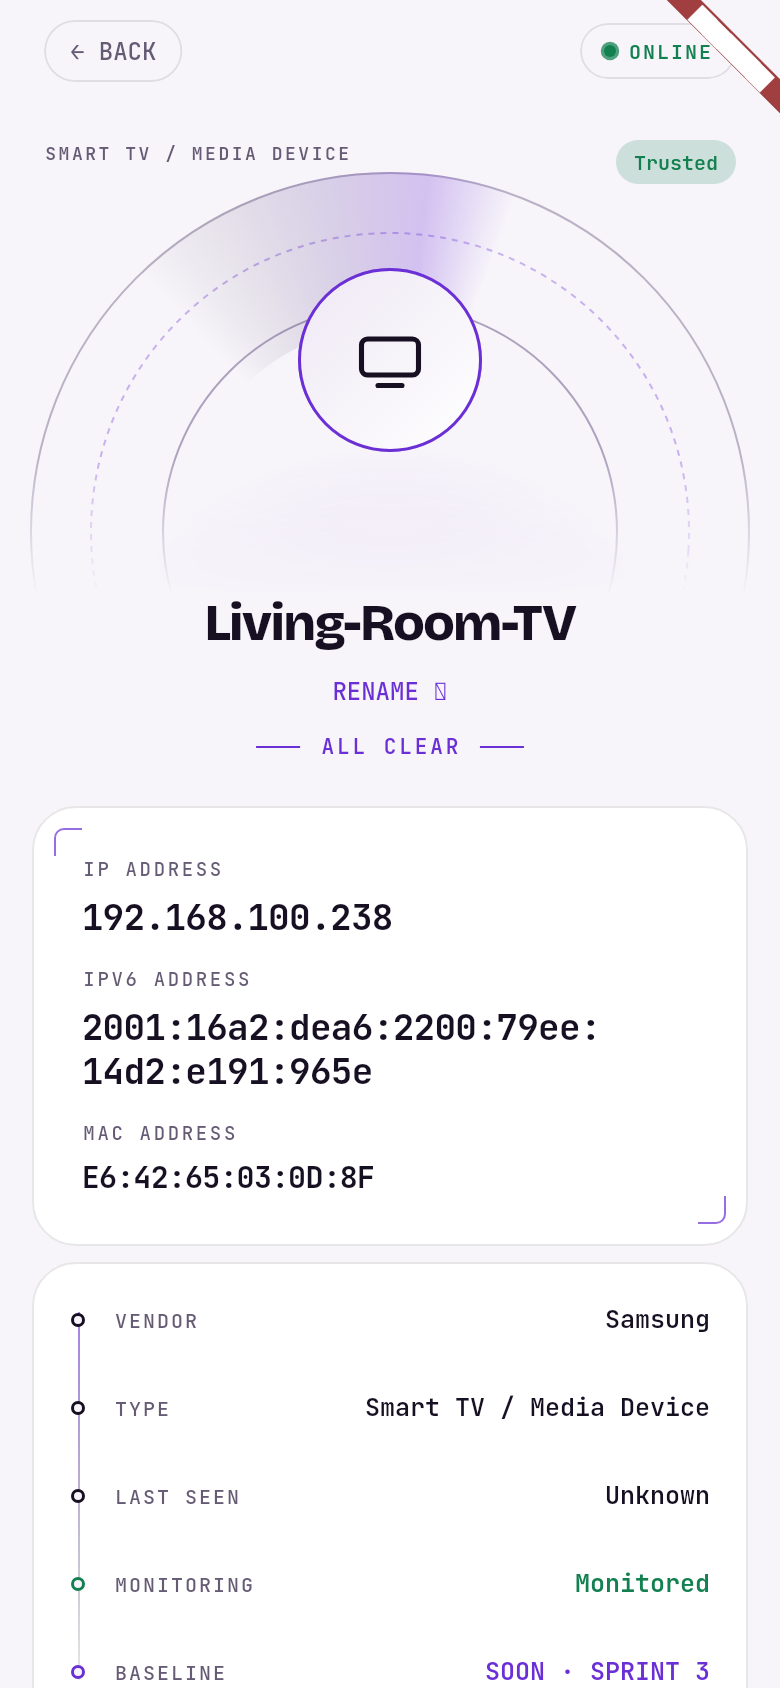
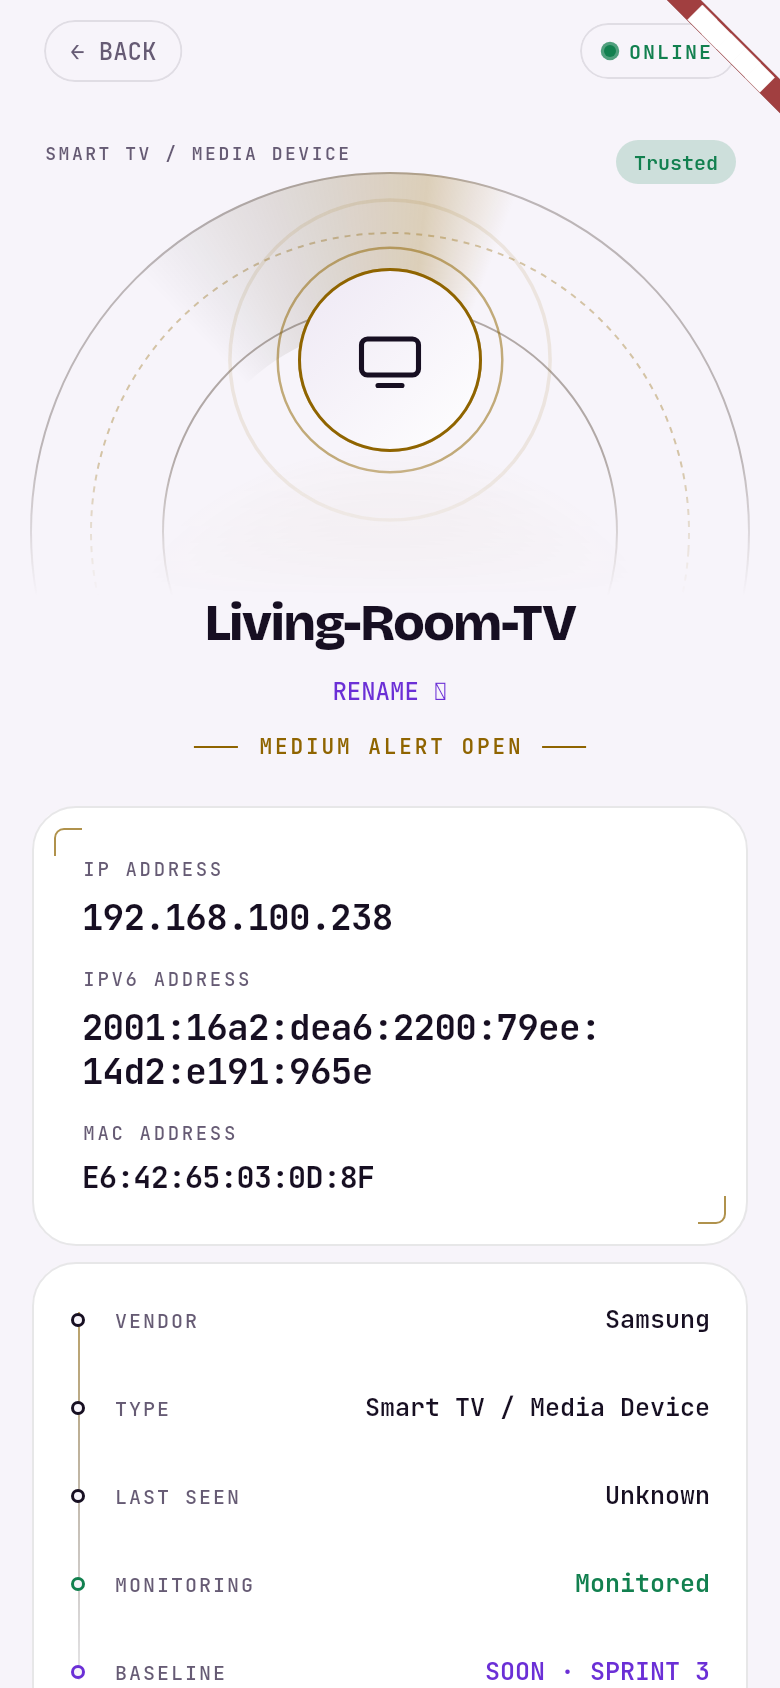
feat(signals): PBI-09/10 unresolved alerts feed device signals; filter labels unclipped; Last seen restored
- alertSeverityBadges ON (approved): worst UNRESOLVED (New/Reviewed) linked alert
  per device drives Attention + Home priority (Signals.sorted) and the device-row
  severity flag/accent using the severity palette — on its own line, never
  blended with trust/monitoring colours. Unlinked (device_mac NULL) alerts are
  attributed to no device; resolving all alerts clears the severity signal while
  Attention persists for Unrecognized/Not-Monitored devices (tests added, incl.
  resolve-all and priority ordering). Home alerts summary + counter (PBI-24) and
  7" display count stay deferred.
- Device filter chips: FittedBox scale-down instead of ellipsis so 'Not
  attention'/'Not monitored' are never clipped; live-resize test changes app
  zoom + system scale with the menu open (during + after), labels stay full.
- Alert details: 'Last seen' row restored showing last_event_time; First
  seen/occurrences/rule id/ports remain hidden (kept in DB/API).
- Docs: PLAN/README/VERIFICATION updated for PBI-22 + PBI-09/10 scope and the
  field-hiding decisions; adds read-only alert-data investigation
  (evidence/partD-alert-data-investigation.md): count driven by informational/
  decoder rules (dedup healthy, 0 should-have-merged pairs); 202 NULL links =
  2 address-less decoder events + 200 IPv6 privacy-address cases, 0 linkable
  misses, 0 ambiguous; IPv6 attribution improvement proposed, not applied.

mobile 76 passed / analyze clean; display analyze clean; goldens regenerated.

diff --git a/app/mobile/test/alerts_test.dart b/app/mobile/test/alerts_test.dart
@@ -87,39 +87,75 @@ void main() {
     test('alerts + state management are enabled; later-sprint surfaces hidden', () {
       expect(FeatureRelease.alerts, isTrue); // Alerts tab, details, device alerts
       expect(FeatureRelease.alertManagement, isTrue); // PBI-22 moved into Sprint 2
+      expect(FeatureRelease.alertSeverityBadges, isTrue); // PBI-09/10: signals + priority
       // Everything else stays hidden until its own sprint:
       expect(FeatureRelease.alertsHome, isFalse); // Home count + recent summary (PBI-24)
-      expect(FeatureRelease.alertSeverityBadges, isFalse); // device-list badges
       expect(FeatureRelease.alertDisplay, isFalse); // 7-inch display count
       expect(FeatureRelease.alertExplanations, isFalse); // "What happened" block
       expect(FeatureRelease.risk, isFalse); // network risk
     });
   });
 
-  group('Device-list alert badges stay hidden (alertSeverityBadges off)', () {
-    test('worstByMac still computes the worst unresolved severity per mac', () {
+  group('PBI-09/10: unresolved alerts feed the device signals', () {
+    test('worstByMac: worst unresolved severity per mac; unlinked/resolved excluded', () {
       final worst = Signals.worstByMac([
         SecurityAlert.fromApi(_apiAlert(over: {'device_mac': 'm1', 'severity': 'low'})),
         SecurityAlert.fromApi(_apiAlert(over: {'device_mac': 'm1', 'severity': 'high'})),
         SecurityAlert.fromApi(_apiAlert(over: {'device_mac': null, 'severity': 'critical'})),
+        SecurityAlert.fromApi(_apiAlert(over: {'device_mac': 'm2', 'severity': 'critical', 'state': 'resolved'})),
       ]);
       expect(worst['m1'], Severity.high);
-      expect(worst.keys.toList(), ['m1']); // unlinked alert (null mac) badges no device
+      // unlinked (null mac) and resolved alerts are attributed to no device
+      expect(worst.keys.toList(), ['m1']);
     });
 
-    test('Signals.all yields no severity badges while the gate is off', () {
+    test('New/Reviewed alert → severity signal; resolving all clears it but keeps Attention when due', () {
       final state = AppState(DemoRepository());
+      addTearDown(state.dispose);
       state.devices = const [
-        Device(mac: 'm1', presence: Presence.online, trusted: true),
-        Device(mac: 'm2', presence: Presence.online, trusted: true),
+        // Unrecognized + not monitored device with an alert.
+        Device(mac: 'm1', presence: Presence.online, trusted: false, monitored: false),
+        // Fully-trusted, monitored device with an alert.
+        Device(mac: 'm2', presence: Presence.online, trusted: true, monitored: true),
       ];
       state.alerts = [
-        SecurityAlert.fromApi(_apiAlert(over: {'device_mac': 'm1', 'severity': 'critical'})),
+        SecurityAlert.fromApi(_apiAlert(over: {'device_mac': 'm1', 'severity': 'medium', 'state': 'reviewed'})),
+        SecurityAlert.fromApi(_apiAlert(over: {'id': 'b', 'device_mac': 'm2', 'severity': 'high', 'state': 'new'})),
       ];
-      final signals = Signals.all(state);
-      expect(signals.every((s) => s.alertSev == null), isTrue);
-      expect(signals.any((s) => s.hasAlert), isFalse);
-      state.dispose();
+      var s1 = Signals.of(state, state.devices[0]);
+      var s2 = Signals.of(state, state.devices[1]);
+      // Reviewed still counts as unresolved; severity shown in the severity palette.
+      expect(s1.hasAlert, isTrue);
+      expect(s1.alertSev, Severity.medium);
+      expect(s1.rowAccent, sevColor(Severity.medium));
+      expect(s2.alertSev, Severity.high);
+      expect(s1.needsAttention && s2.needsAttention, isTrue);
+
+      // Resolve ALL alerts: the severity signal disappears...
+      state.alerts = [
+        for (final a in state.alerts!) a.copyWith(state: AlertState.resolved),
+      ];
+      s1 = Signals.of(state, state.devices[0]);
+      s2 = Signals.of(state, state.devices[1]);
+      expect(s1.hasAlert, isFalse);
+      expect(s2.hasAlert, isFalse);
+      // ...but m1 stays Attention (unrecognized + not monitored), m2 does not.
+      expect(s1.needsAttention, isTrue);
+      expect(s2.needsAttention, isFalse);
+    });
+
+    test('Home priority: the device with the open alert sorts first among online', () {
+      final state = AppState(DemoRepository());
+      addTearDown(state.dispose);
+      state.devices = const [
+        Device(mac: 'aa', hostname: 'Quiet', presence: Presence.online, trusted: true, monitored: true),
+        Device(mac: 'bb', hostname: 'Alerting', presence: Presence.online, trusted: true, monitored: true),
+      ];
+      state.alerts = [
+        SecurityAlert.fromApi(_apiAlert(over: {'device_mac': 'bb', 'severity': 'high'})),
+      ];
+      final sorted = Signals.sorted(state);
+      expect(sorted.first.device.mac, 'bb');
     });
   });
 }

diff --git a/app/mobile/test/device_filter_test.dart b/app/mobile/test/device_filter_test.dart
@@ -1,6 +1,7 @@
 import 'package:assas_core/assas_core.dart';
 import 'package:assas_mobile/screens/devices/device_list_screen.dart';
 import 'package:assas_mobile/state/app_state.dart';
+import 'package:assas_mobile/widgets/design_scale.dart';
 import 'package:flutter/material.dart';
 import 'package:flutter_test/flutter_test.dart';
 import 'package:shared_preferences/shared_preferences.dart';
@@ -23,5 +24,54 @@ void main() {
     expect(find.text('DEVICE INDEX · 1 / 2'), findsOneWidget);
     expect(find.text('New'), findsOneWidget);
     expect(find.text('Known'), findsNothing);
+  });
+
+  testWidgets('filter labels stay full (no clipping) while the font size changes live', (tester) async {
+    SharedPreferences.setMockInitialValues({});
+    final state = AppState(DemoRepository())..loadedOnce = true;
+    state.devices = const [
+      Device(mac: 'aa', hostname: 'Known', presence: Presence.online, trusted: true),
+    ];
+    addTearDown(state.dispose);
+    addTearDown(tester.view.reset);
+    tester.view.devicePixelRatio = 1;
+    tester.view.physicalSize = const Size(320, 900);
+
+    final scale = ValueNotifier<double>(0.85);
+    final zoom = ValueNotifier<double>(1.0);
+    addTearDown(scale.dispose);
+    addTearDown(zoom.dispose);
+    await tester.pumpWidget(MaterialApp(
+      home: ListenableBuilder(
+        listenable: Listenable.merge([scale, zoom]),
+        builder: (context, _) => MediaQuery(
+          data: MediaQuery.of(context).copyWith(textScaler: TextScaler.linear(scale.value)),
+          child: DesignScale(
+            zoom: zoom.value,
+            child: Material(child: Scaffold(body: DeviceListScreen(state: state))),
+          ),
+        ),
+      ),
+    ));
+    await tester.pump(const Duration(milliseconds: 300));
+
+    // Open the filter menu, then change app zoom + system scale LIVE with the
+    // menu open; the full pair labels must stay present (FittedBox shrinks, no
+    // ellipsis) and nothing overflows during or after the change.
+    await tester.tap(find.bySemanticsLabel(RegExp('^Filter devices')));
+    await tester.pump(const Duration(milliseconds: 300));
+    const labels = ['All', 'Attention', 'Not attention', 'Trusted', 'Untrusted',
+      'Online', 'Offline', 'Monitored', 'Not monitored'];
+    for (final (z, s) in [(1.0, 0.85), (1.2, 1.0), (1.2, 1.3), (1.06, 1.3), (1.0, 0.85)]) {
+      zoom.value = z;
+      scale.value = s;
+      await tester.pump();                                 // during the change
+      expect(tester.takeException(), isNull, reason: 'during zoom=$z scale=$s');
+      await tester.pump(const Duration(milliseconds: 320)); // settled
+      expect(tester.takeException(), isNull, reason: 'settled zoom=$z scale=$s');
+      for (final l in labels) {
+        expect(find.text(l), findsOneWidget, reason: '"$l" must stay fully present at zoom=$z scale=$s');
+      }
+    }
   });
 }

diff --git a/app/mobile/lib/screens/devices/device_list_screen.dart b/app/mobile/lib/screens/devices/device_list_screen.dart
@@ -468,8 +468,15 @@ class _DeviceListScreenState extends State<DeviceListScreen> {
           children: [
             GlowDot(p.dot, size: 7, glow: 0),
             const SizedBox(width: 7),
+            // Full label always visible: shrink-to-fit instead of ellipsis, so
+            // "Not attention"/"Not monitored" are never clipped at large fonts
+            // while the two-per-row layout is kept.
             Expanded(
-              child: Text(p.label, maxLines: 1, overflow: TextOverflow.ellipsis, style: UiText.menuItem),
+              child: FittedBox(
+                fit: BoxFit.scaleDown,
+                alignment: Alignment.centerLeft,
+                child: Text(p.label, maxLines: 1, style: UiText.menuItem),
+              ),
             ),
             if (on) Text('✓', style: UiText.sans(12, 800, color: Ui.acc)),
           ],
@@ -671,6 +678,14 @@ class _DeviceRow extends StatelessWidget {
                     crossAxisAlignment: CrossAxisAlignment.end,
                     children: [
                       Text('● ${d.onlineLabel}', style: UiText.listStatus.copyWith(color: s.dotColor)),
+                      // PBI-09/10: worst UNRESOLVED alert severity, in the
+                      // severity palette (own line — never blended with the
+                      // trust/monitoring flag colours below).
+                      if (s.hasAlert) ...[
+                        const SizedBox(height: 3),
+                        Text('${sevUpper(s.alertSev!)} ALERT',
+                            style: UiText.listFlag.copyWith(color: s.alertColor)),
+                      ],
                       if (s.unrec) ...[
                         const SizedBox(height: 3),
                         Text('UNRECOGNIZED', style: UiText.listFlag.copyWith(color: Ui.med)),

diff --git a/app/packages/assas_design/lib/release_status.dart b/app/packages/assas_design/lib/release_status.dart
@@ -13,13 +13,17 @@ abstract final class FeatureRelease {
   // flag is independent of the deferred Home surfaces below.
   static bool get alertManagement => true;
 
-  // Later-sprint surfaces kept hidden even though `alerts` + `alertManagement`
-  // are live (PBI-24 and friends are NOT part of the PBI-22 move):
-  //  - Home (dashboard) open-alerts count + recent-alerts summary,
-  //  - device-list per-row alert-severity badges / alert-based sorting,
+  // PBI-09/PBI-10 (approved for Sprint 2): unresolved alerts feed the device
+  // signals — Attention computation, Home device priority, and the per-row
+  // alert-severity accent using the severity palette (never blended with the
+  // trust/monitoring colours). Only LINKED alerts count; device_mac NULL ones
+  // are attributed to no device.
+  static bool get alertSeverityBadges => true;
+
+  // Still-deferred surfaces (NOT part of the PBI-22/PBI-09/10 scope):
+  //  - Home (dashboard) open-alerts count + recent-alerts summary (PBI-24),
   //  - the 7-inch display's alert count.
   static bool get alertsHome => false;
-  static bool get alertSeverityBadges => false;
   static bool get alertDisplay => false;
   // Plain-language explanations are a later sprint; hidden here (explanation is
   // NULL for Sprint 2 threat alerts).

diff --git a/app/mobile/test/detail_overflow_test.dart b/app/mobile/test/detail_overflow_test.dart
@@ -117,10 +117,12 @@ void main() {
     await tester.pumpWidget(MaterialApp(theme: MobileTheme.light,
         home: DesignScale(zoom: 1, child: AlertDetailsScreen(state: s, alertId: '1'))));
     await tester.pump(const Duration(milliseconds: 60));
-    // SpecList uppercases labels; hidden fields must be absent in any case
-    for (final f in ['OCCURRENCES', 'FIRST SEEN', 'LAST SEEN', 'RULE ID', 'DEVICE']) {
+    // SpecList uppercases labels; hidden fields must be absent in any case.
+    // (LAST SEEN is intentionally shown again = last_event_time; FIRST SEEN stays hidden.)
+    for (final f in ['OCCURRENCES', 'FIRST SEEN', 'RULE ID', 'DEVICE']) {
       expect(find.text(f), findsNothing, reason: '$f should be hidden');
     }
+    expect(find.text('LAST SEEN'), findsOneWidget, reason: 'Last seen (last_event_time) is shown');
     // ports hidden: value shows IP only, never ip:port
     expect(find.textContaining(':51000'), findsNothing);
     expect(find.textContaining(':443'), findsNothing);

diff --git a/app/mobile/lib/screens/alerts/alert_details_screen.dart b/app/mobile/lib/screens/alerts/alert_details_screen.dart
@@ -141,6 +141,9 @@ class _AlertDetailsScreenState extends State<AlertDetailsScreen> {
                     rows: [
                       ('Alert type', a.kindLabel, Ui.ink),
                       ('Severity', a.severityLabel, c),
+                      // Last seen = the actual last event time (dedup bumps it).
+                      // First seen stays hidden per the field-hiding decision.
+                      ('Last seen', TimeFormat.alertTime(a.lastTime ?? a.time), Ui.ink),
                       if (a.kind == AlertKind.threat && a.sourceIp != null)
                         ('Source IP', a.sourceIp!, Ui.ink),
                       if (a.kind == AlertKind.threat && a.destinationIp != null)

diff --git a/docs/sprint-2/evidence/partD-alert-data-investigation.md b/docs/sprint-2/evidence/partD-alert-data-investigation.md
@@ -1,0 +1,82 @@
+# Alert data investigation (read-only) — unlinked alerts & large count
+
+Read-only analysis of the production DB (`assas.db`, `mode=ro`) cross-checked
+against the live `/var/log/suricata/eve.json` on 2026-11-04. **No rows deleted,
+no rules/severity changed, no synthetic events written.** Snapshot: 577 Threat
+rows, SUM(occurrence_count)=5119, 39 distinct rules, event window
+2026-11-02T15:40 → 2026-11-04T20:01.
+
+## Item 4 — why the count is large (not an attack, not a dedup bug)
+
+**Distribution**
+- By state: New 575 (occ 3619), Reviewed 1 (occ 218), Resolved 1 (occ 1282).
+- By severity: **all 577 are Medium** — every firing rule has Suricata priority 3
+  (`1→Critical, 2→High, 3→Medium, ≥4→Low`), so nothing maps to Critical/High/Low.
+- Top rules (rows / occ): ET INFO Discord Domain in DNS Lookup 144/2086; SURICATA
+  STREAM CLOSEWAIT FIN out of window 141/245; SURICATA STREAM excessive
+  retransmissions 71/75; more ET INFO Discord 42/32; SURICATA TCP option invalid
+  length 19/394; ET FILE_SHARING file-sharing domain 11+11; ET INFO Android
+  connectivity check 9.
+
+**Classification:** the volume is dominated by **informational** rules (ET INFO
+Discord/connectivity/file-sharing *domain in DNS/TLS* — benign lookups; category
+"Misc activity") and **decoder/stream-engine** events (SURICATA STREAM / TCP
+option / IPv6) — network noise, not threat indicators. Confirmed against eve.json:
+rule 2035465 is a real `ET INFO ... DNS Lookup`, category "Misc activity",
+priority 3, with a src_ip.
+
+**Is it real events, re-duplication, or a dedup/resume bug?** Real events.
+- Dedup is working: 577 rows compress 5119 events.
+- No merge failures: **0** linked rows start within the 300 s window of the
+  previous same-rule+device alert (query with a window-function LAG). The many
+  rows per rule+device (e.g. 144 Discord rows on one device over ~2 days) are all
+  spaced **> 300 s** apart → legitimately separate instances, not re-dup.
+- The P1 ingester fixes (fstat identity, reaper, resume) already landed; no
+  inflation from re-reads is present in this snapshot.
+
+**Recommendation (NOT applied — proposal only, per instruction):** do not delete
+rows or change rules/severity to shrink the number. If desired, a *separate*
+proposal is to (a) surface a rule-class label so informational/decoder events are
+visually distinct from threat-indicative ones, and/or (b) tune noisy decoder
+rules — each with its own before/after evidence. Validation limit: rotated eve
+files are reaped per retention, so events older than the retained window can't be
+re-matched line-by-line.
+
+## Item 3 — alerts with device_mac = NULL (202 of 577)
+
+Classified read-only:
+| Reason | Count |
+|--------|-------|
+| (a) event has no addresses (decoder) | 2 |
+| (b) addresses present, **no** inventory match | 200 |
+| (c) address matches **>1** device (ambiguous → NULL by design) | 0 |
+| (d) address matches **exactly one** device but was left NULL (**would be a bug**) | **0** |
+
+**(d) = 0 → the linker has no bug:** every alert that could be reliably attributed
+*is* linked (IPv4 links fine). Nothing is left Unknown that should have linked,
+and nothing is linked arbitrarily.
+
+**Root cause of the 200:** they are **all IPv6** (0 IPv4). 189 of 200 carry a home
+address in the prefix `2001:16a2:dea6:2200::/64` (e.g.
+`dst=2001:16a2:dea6:2200:79ee:14d2:e191:965e`) talking to an external host
+(Facebook/Cloudflare/Google IPv6). That home address is a **temporary/privacy
+SLAAC address** that is **not** the single global IPv6 the inventory stored for
+the device (inventory has e.g. `...:2200:6854:...` for a device in the same /64).
+Devices rotate privacy addresses and the /64 holds several devices, so matching by
+the stored address fails and matching by prefix would be **ambiguous** — PBI-14
+therefore correctly leaves `device_mac = NULL` rather than guess.
+
+**Proposal (NOT applied — needs approval + a discovery/inventory change, out of
+PBI-14's "link only when reliable"):** attribute IPv6 flows to devices by tracking
+each device's *set* of current IPv6 addresses (from the NDP neighbour cache /
+observed traffic), so privacy-address flows resolve to the owning MAC. Prefix-only
+matching is not added because it is not a reliable host match.
+
+## Item 2 — missing source/destination addresses are genuinely absent
+
+Only **2** alerts have no src/dst, both `SURICATA IPv6 truncated packet` decoder
+events. Confirmed in eve.json: the event itself has **no** `src_ip`/`dest_ip`
+(`has src_ip= False, has dest_ip= False`). So the blank addresses are real, not a
+fetch/display loss, and the detail screen correctly omits the Source/Destination
+IP rows (no fabricated values). All address-bearing alerts carry their src/dst
+through the API to the screen.

diff --git a/docs/sprint-2/PLAN.md b/docs/sprint-2/PLAN.md
@@ -152,17 +152,21 @@ belong to later sprints (for example the Home open-alerts count, recent-alerts s
 device-signal badges, and network risk) stay hidden or move behind their own later-sprint flag.
 The flag is enabled only after that audit is approved.
 
-With the existing design and styling preserved:
-- `FeatureRelease.alerts` is set to `true`; `FeatureRelease.alertManagement` stays `false`, so
-  there are no All/Open/Resolved tabs and no Review/Resolve actions.
+With the existing design and styling preserved (**updated — PBI-22 and the PBI-09/10 signal
+linkage were later approved into Sprint 2; the original plan text kept them off**):
+- `FeatureRelease.alerts` and `FeatureRelease.alertManagement` are `true`: the All/Open/Resolved
+  tabs and the Review/Resolve actions are live (PBI-22). `alertSeverityBadges` is `true`:
+  unresolved linked alerts feed the device signals (Attention + Home priority, severity palette).
+  The Home open-alerts count/summary (PBI-24) and the 7-inch display count stay hidden.
 - `SecurityAlert` and its `fromApi` factory are extended additively with `occurrence_count`, first
-  and last event times, `src_port` / `dst_port`, and `rule_id`.
-- **Alerts tab:** a list of Threat Alerts showing title, severity, affected device, last event
-  time, and occurrence count, newest first by last event time.
-- **Alert details:** title, severity, device, first and last event time, occurrence count, source
-  and destination addresses and ports, and rule ID, with navigation to the related device details.
-  The explanation and anomaly block is hidden behind a later-sprint flag, as those fields are NULL
-  this sprint.
+  and last event times, `src_port` / `dst_port`, and `rule_id` (kept in the DB and API).
+- **Alerts tab:** hero = true open count (DB aggregate of New+Reviewed) + "open alerts"; a list of
+  Threat Alerts showing title, severity, affected device, last event time and state, newest first.
+  Occurrence count is hidden in the UI per the field-hiding decision.
+- **Alert details:** title, time, device (shown once, with navigation), state badge, Review/Resolve,
+  and Signal details = alert type, severity, last seen (= last event time), source/destination IP.
+  Occurrences, first seen, rule ID and ports are hidden in the UI (kept in DB/API). The explanation
+  and anomaly block is hidden behind a later-sprint flag, as those fields are NULL this sprint.
 - **Device details:** the device's alerts replace the "Coming soon" section once the alerts flag is
   enabled.
 - Flutter widget tests cover the list and details screens.

diff --git a/docs/sprint-2/README.md b/docs/sprint-2/README.md
@@ -228,10 +228,17 @@ own flags.
 `alertSeverityBadges`, `alertDisplay`, `alertExplanations` all **false**; `alertManagement`, `risk`
 stay false.
 
+> **Scope update:** PBI-22 (alert state management — New/Reviewed/Resolved,
+> All/Open/Resolved tabs, Review/Resolve) was **moved into Sprint 2**. The
+> `alertManagement` flag is ON and is independent of the still-deferred Home
+> surfaces (PBI-24). Per the field-hiding decision, occurrences / first & last
+> seen / rule id / ports are hidden in the UI but kept in the DB and API. See
+> `REVIEW-RESPONSE.md` and `partD-*` for the current behaviour and live results.
+
 | Surface | Sprint 2 | How |
 |---|---|---|
-| Alerts tab (list) | ✓ shown | title, severity, device, last event time, occurrence (`N×`); newest first; All/Open/Resolved tabs stay off (`alertManagement`) |
-| Alert details | ✓ shown | title, severity, device (+nav), first & last seen, occurrences, source/dest address:port, rule ID; explanation block hidden (`alertExplanations`); Review/Resolve hidden (`alertManagement`) |
+| Alerts tab (list) | ✓ shown | open count + "open alerts" hero (DB aggregate New+Reviewed); title, severity, device, last event time, state; newest first; **All/Open/Resolved tabs ON** (PBI-22 moved into Sprint 2). Occurrence `N×` is **hidden**. |
+| Alert details | ✓ shown | title, time, device (+nav), **state badge**, and in Signal details: alert type, severity, source/destination IP. **Review/Resolve actions ON** (PBI-22). Occurrences, first/last seen, rule ID and ports are **hidden** (kept in DB + API); explanation block hidden (`alertExplanations`). |
 | Device details → alerts | ✓ shown | this device's alerts replace "Coming soon" |
 | Home open-alerts count + recent summary | ✗ hidden | gated on `alertsHome` → stays "SOON" |
 | Device-list severity badges / sort | ✗ hidden | gated on `alertSeverityBadges` |

diff --git a/docs/sprint-2/VERIFICATION.md b/docs/sprint-2/VERIFICATION.md
@@ -64,9 +64,13 @@ isolated test backend. On a machine with Flutter:
 ```
 cd app/mobile && flutter pub get && flutter run   # or: flutter run -d chrome
 ```
-Pair using the code on the 7-inch display, then capture into `docs/sprint-2/evidence/ui/`:
-1. `alerts-tab.png` — list: title, severity, device, last event time, occurrence `N×`, newest first.
-2. `alert-details.png` — first/last seen, occurrences, src/dst address:port, rule ID; navigate to
-   device details; **no** explanation block / Review·Resolve.
+Pair using the code on the 7-inch display, then capture into `docs/sprint-2/evidence/ui/`
+(**updated for the PBI-22 move + field-hiding decisions**):
+1. `alerts-tab.png` — hero: open count + "open alerts" (DB aggregate); All/Open/Resolved tabs;
+   list rows: title, severity, device, last event time, state pill; newest first (no occurrence `N×`).
+2. `alert-details.png` — title, time, device pill (navigates to device details), state badge,
+   Review/Resolve buttons; Signal details: alert type, severity, last seen, source/destination IP
+   (no occurrences / first seen / rule ID / ports; explanation block still hidden).
 3. `device-alerts.png` — the device's alerts (no "Coming soon").
+4. `device-list.png` — severity flag on alerting devices (severity palette, PBI-09/10).
 Confirm each screen's values match `GET /alerts` / `/alerts/{id}` / `/devices/{mac}/alerts`.
